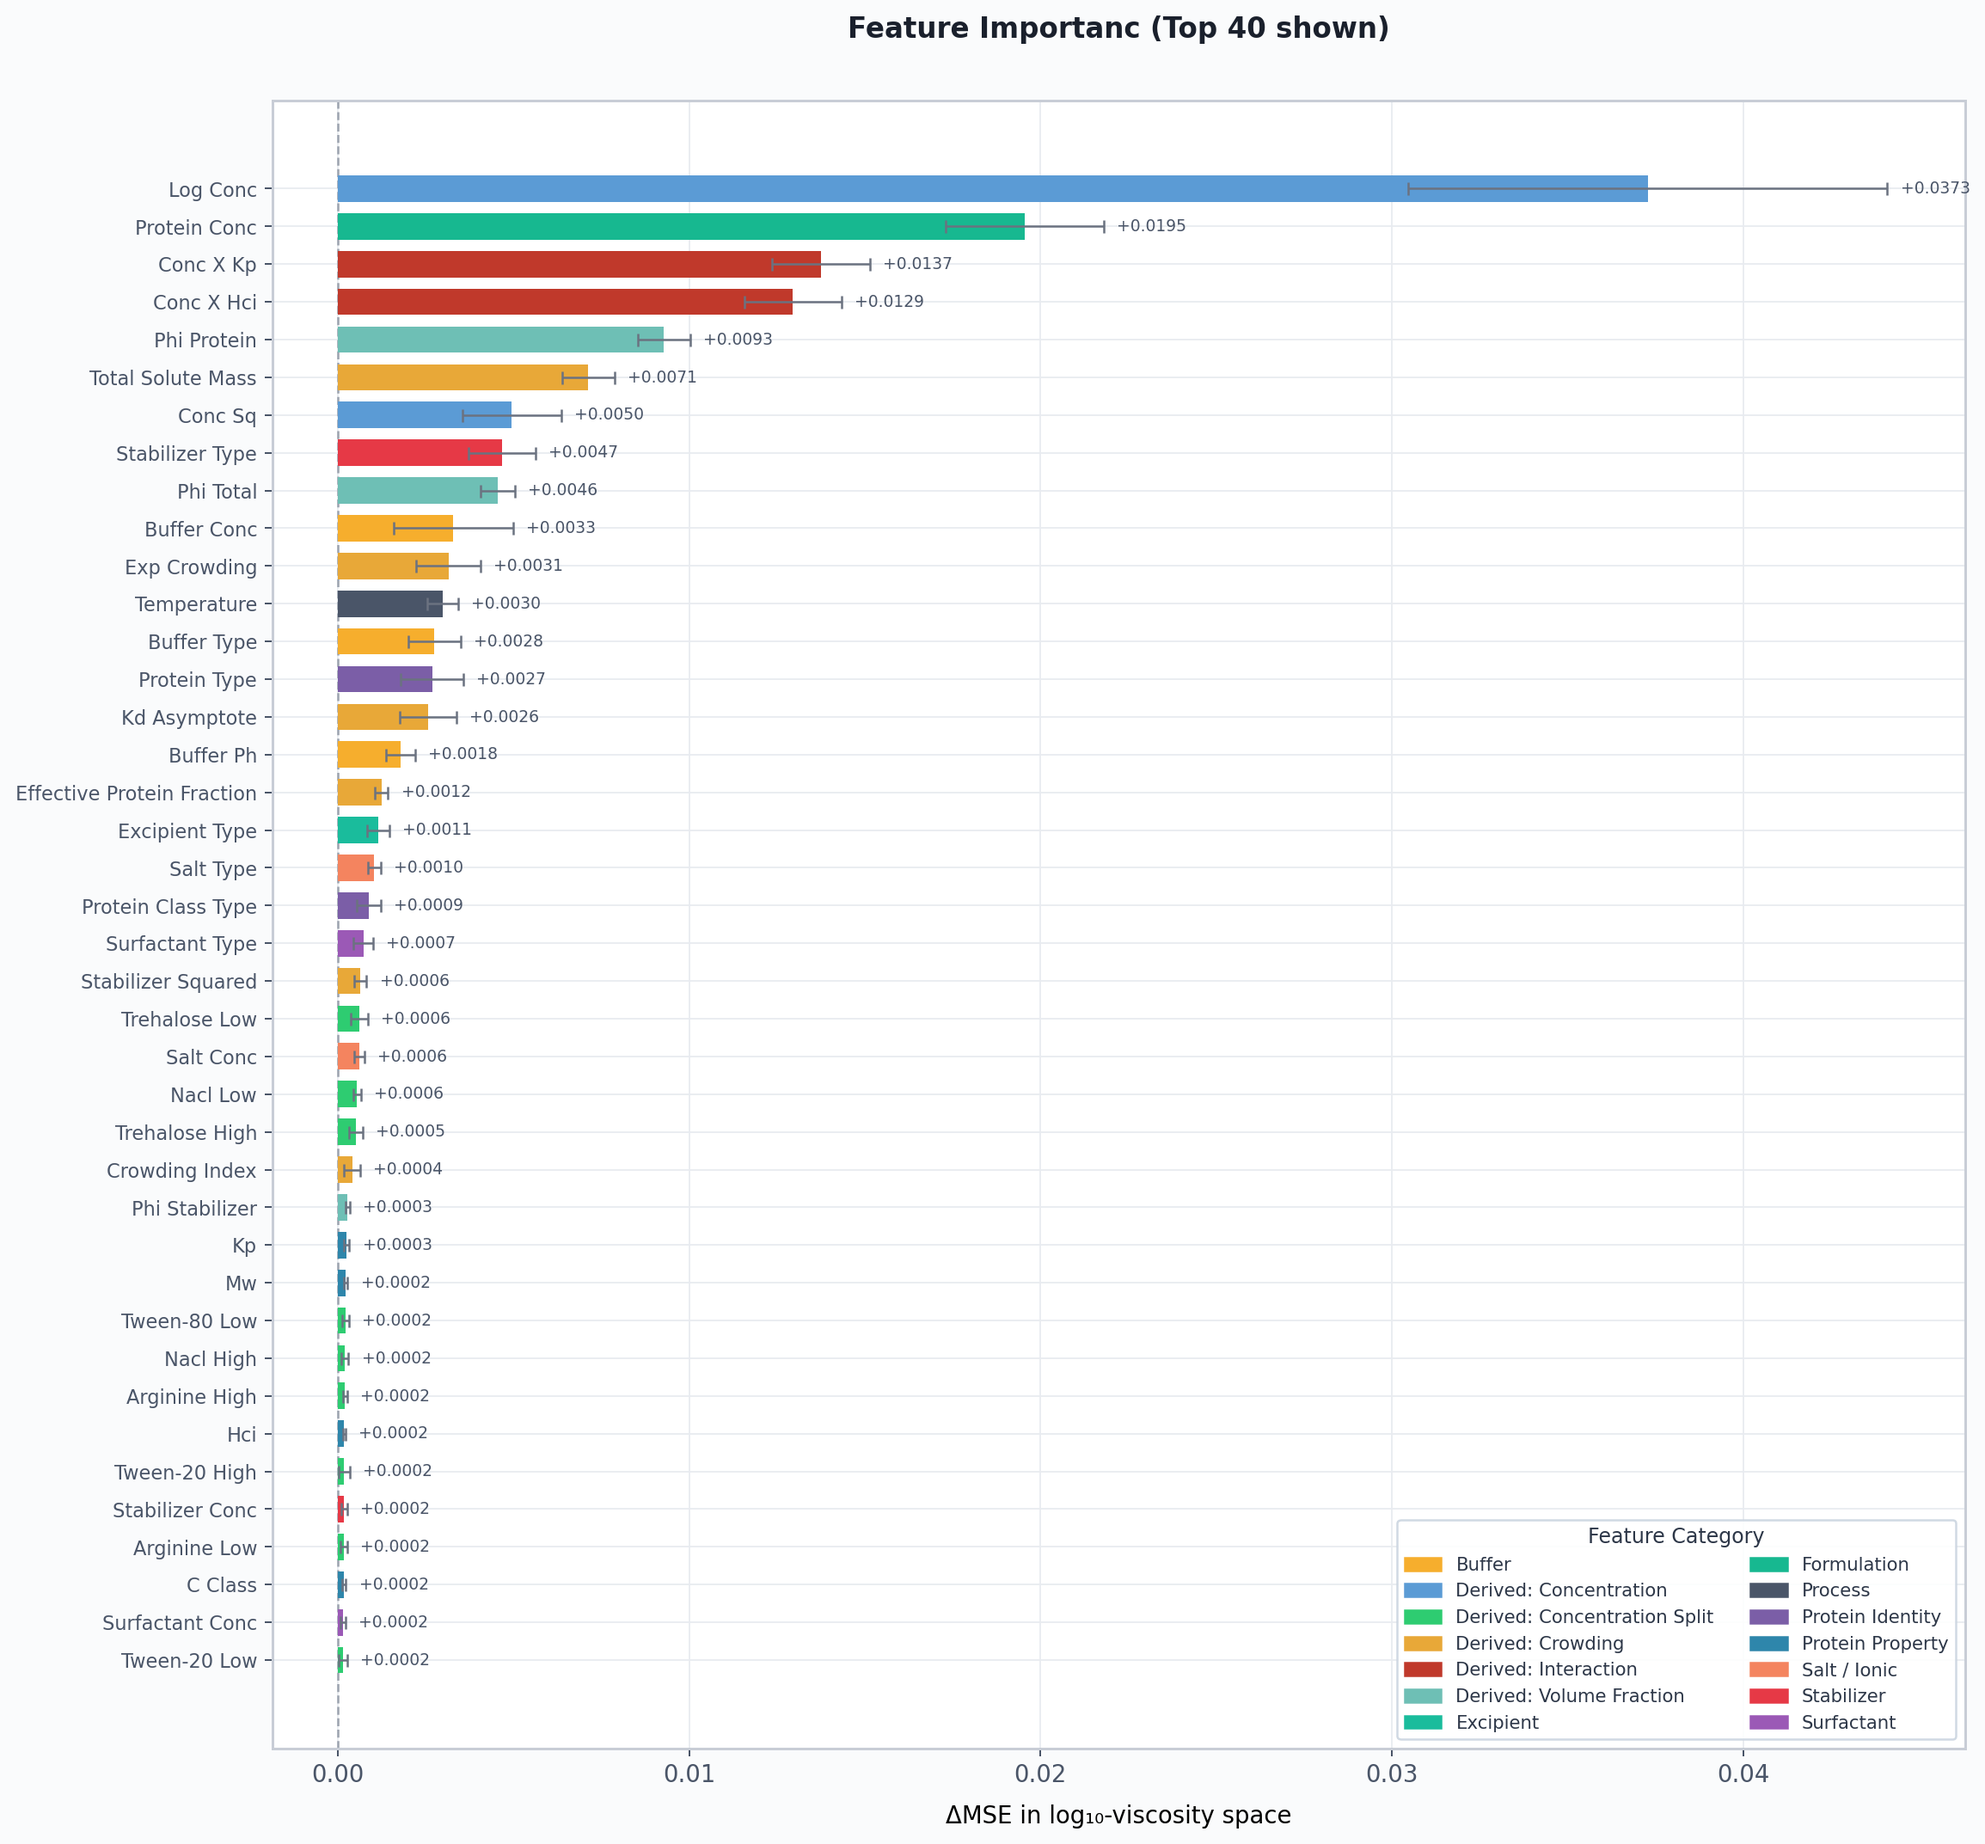
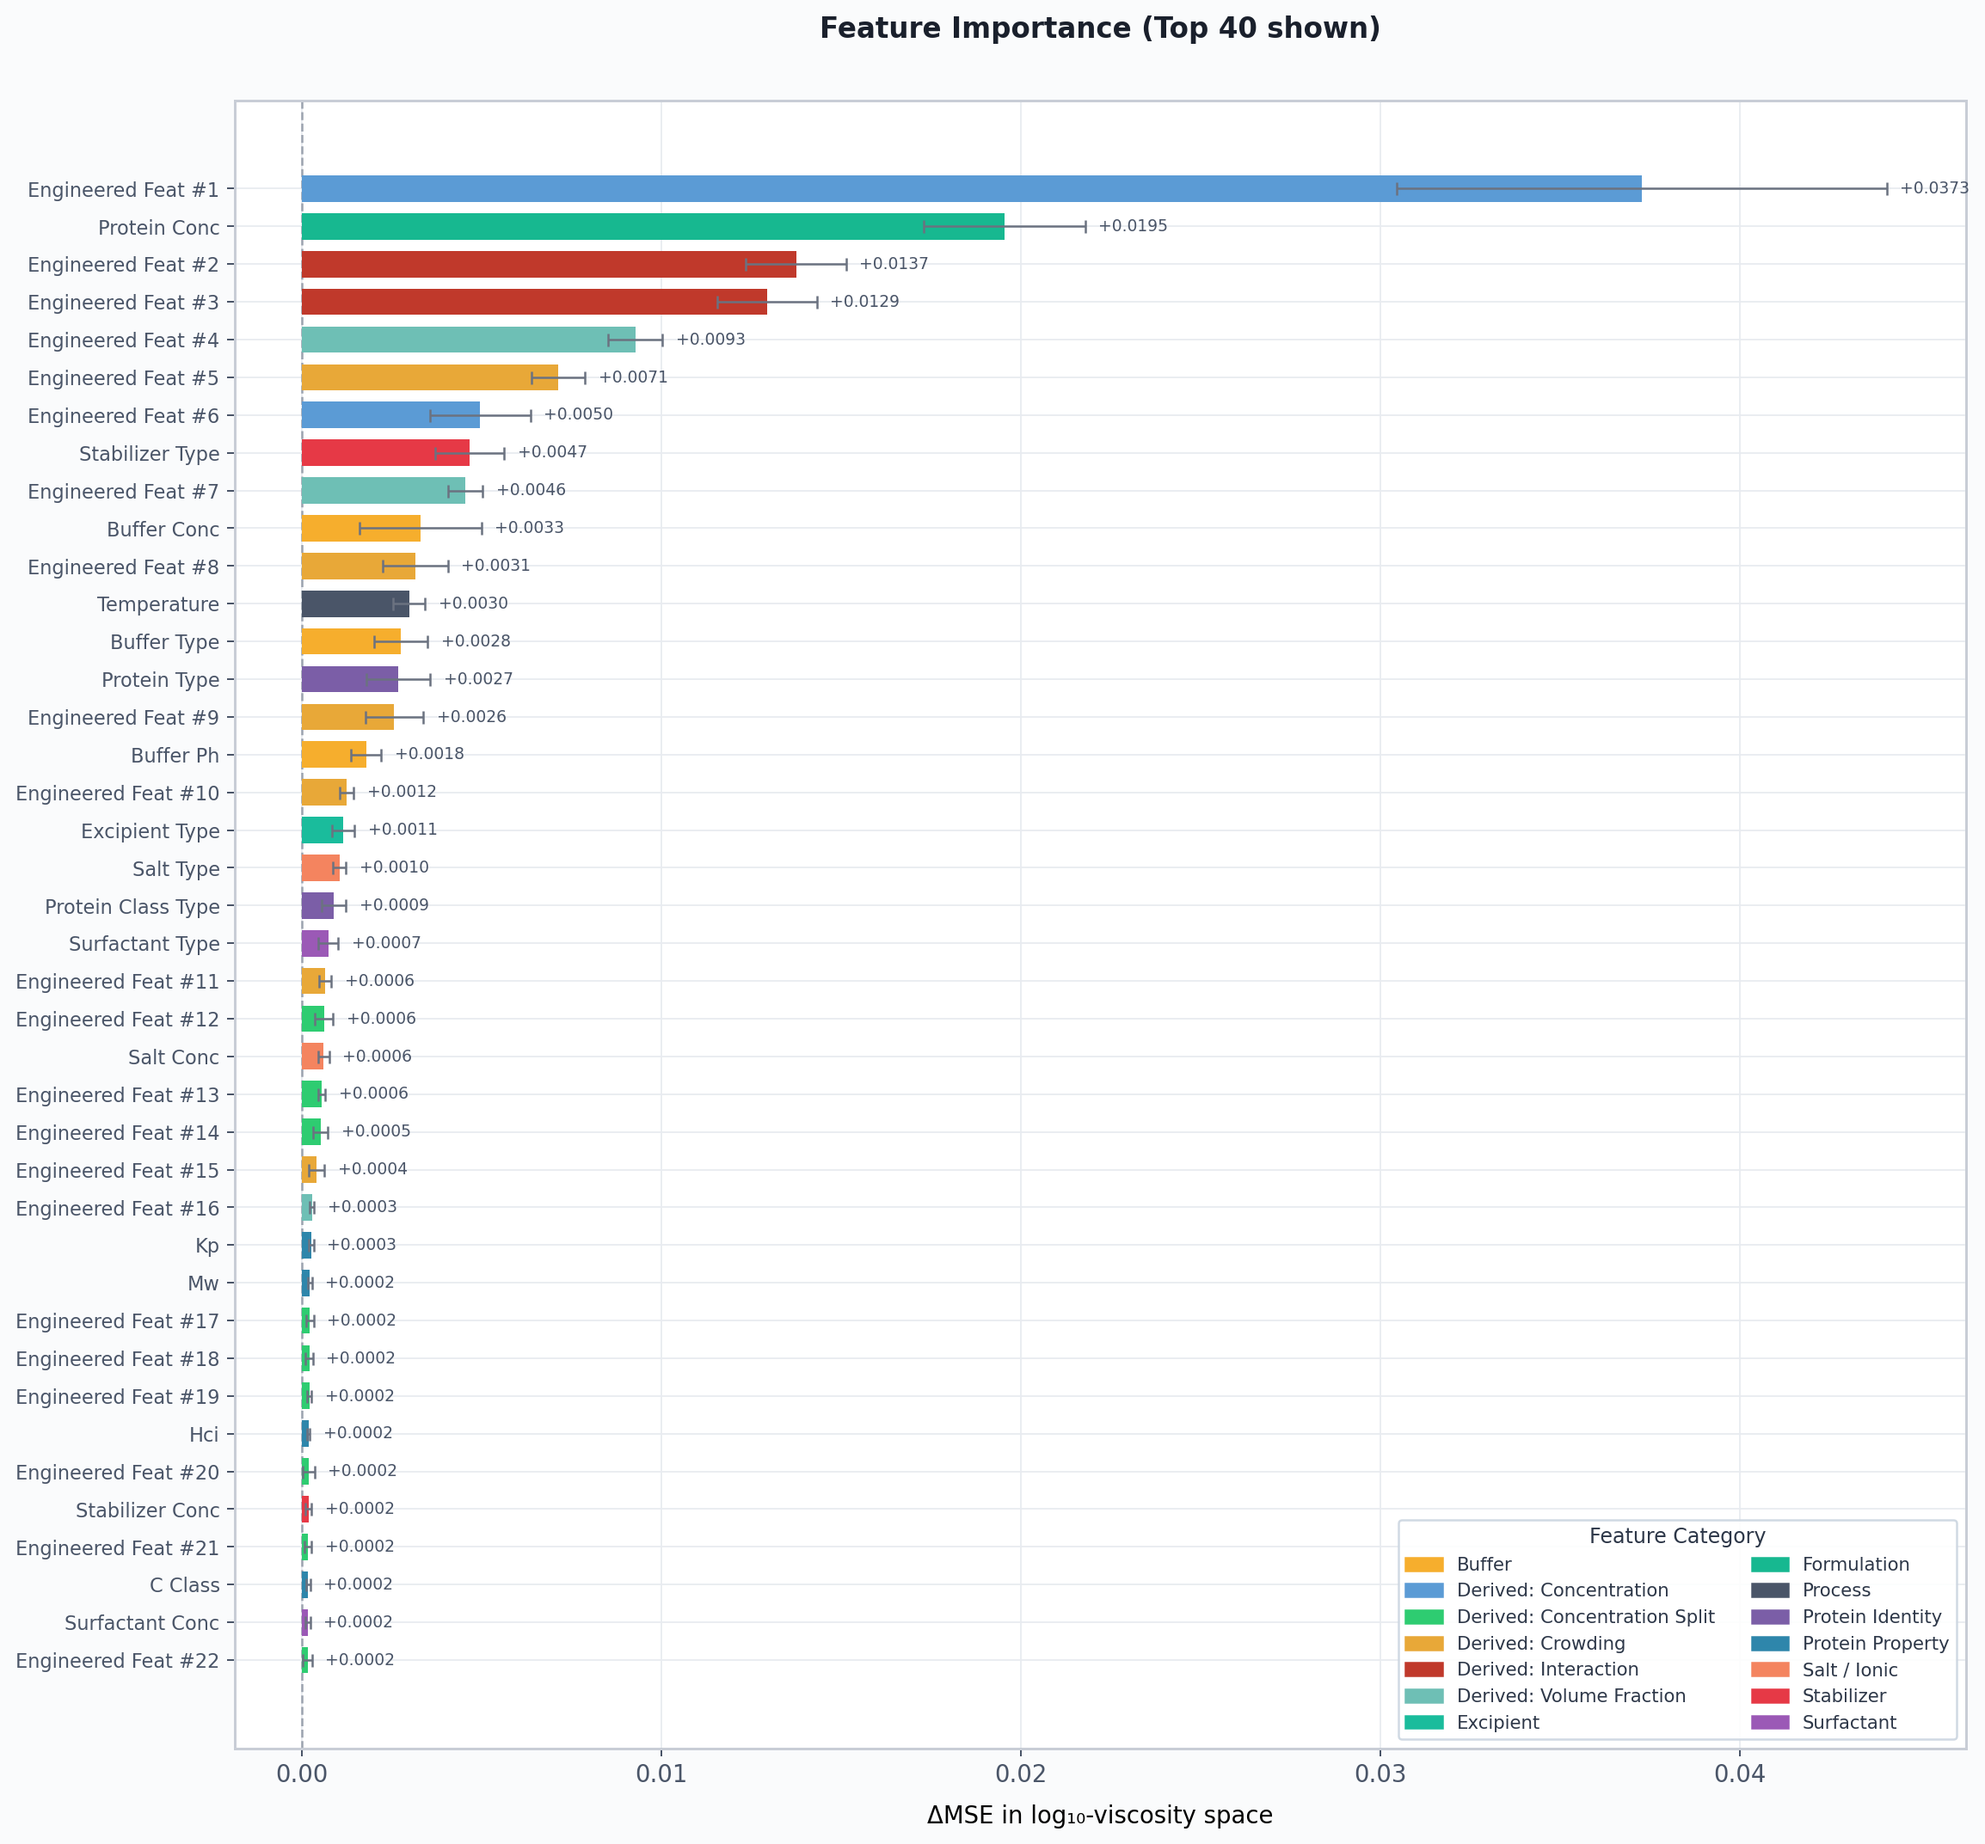
fixing typo

diff --git a/ml/test/feature_importance_cnp.py b/ml/test/feature_importance_cnp.py
@@ -917,10 +917,16 @@ def plot_all_features(all_feat_dict, out_path, baseline_mse, top_n=40):
     stds = []
     cats = []
 
+    first_order_names = set(NUM_COLS_RAW + CAT_COLS)
+    eng_counter = 0
     for name, (mu, sig, cat) in items:
         # Clean display label
-        label = name.replace("num__", "").replace("cat__", "")
-        label = label.replace("_", " ").title()
+        clean = name.replace("num__", "").replace("cat__", "")
+        if clean in first_order_names:
+            label = clean.replace("_", " ").title()
+        else:
+            eng_counter += 1
+            label = f"Engineered Feat #{eng_counter}"
         labels.append(label)
         means.append(mu)
         stds.append(sig)
@@ -967,7 +973,7 @@ def plot_all_features(all_feat_dict, out_path, baseline_mse, top_n=40):
             labelpad=8,
         )
         ax.set_title(
-            f"Feature Importanc (Top {top_n} shown)\n",
+            f"Feature Importance (Top {top_n} shown)\n",
             fontsize=13,
             fontweight="bold",
             pad=14,
